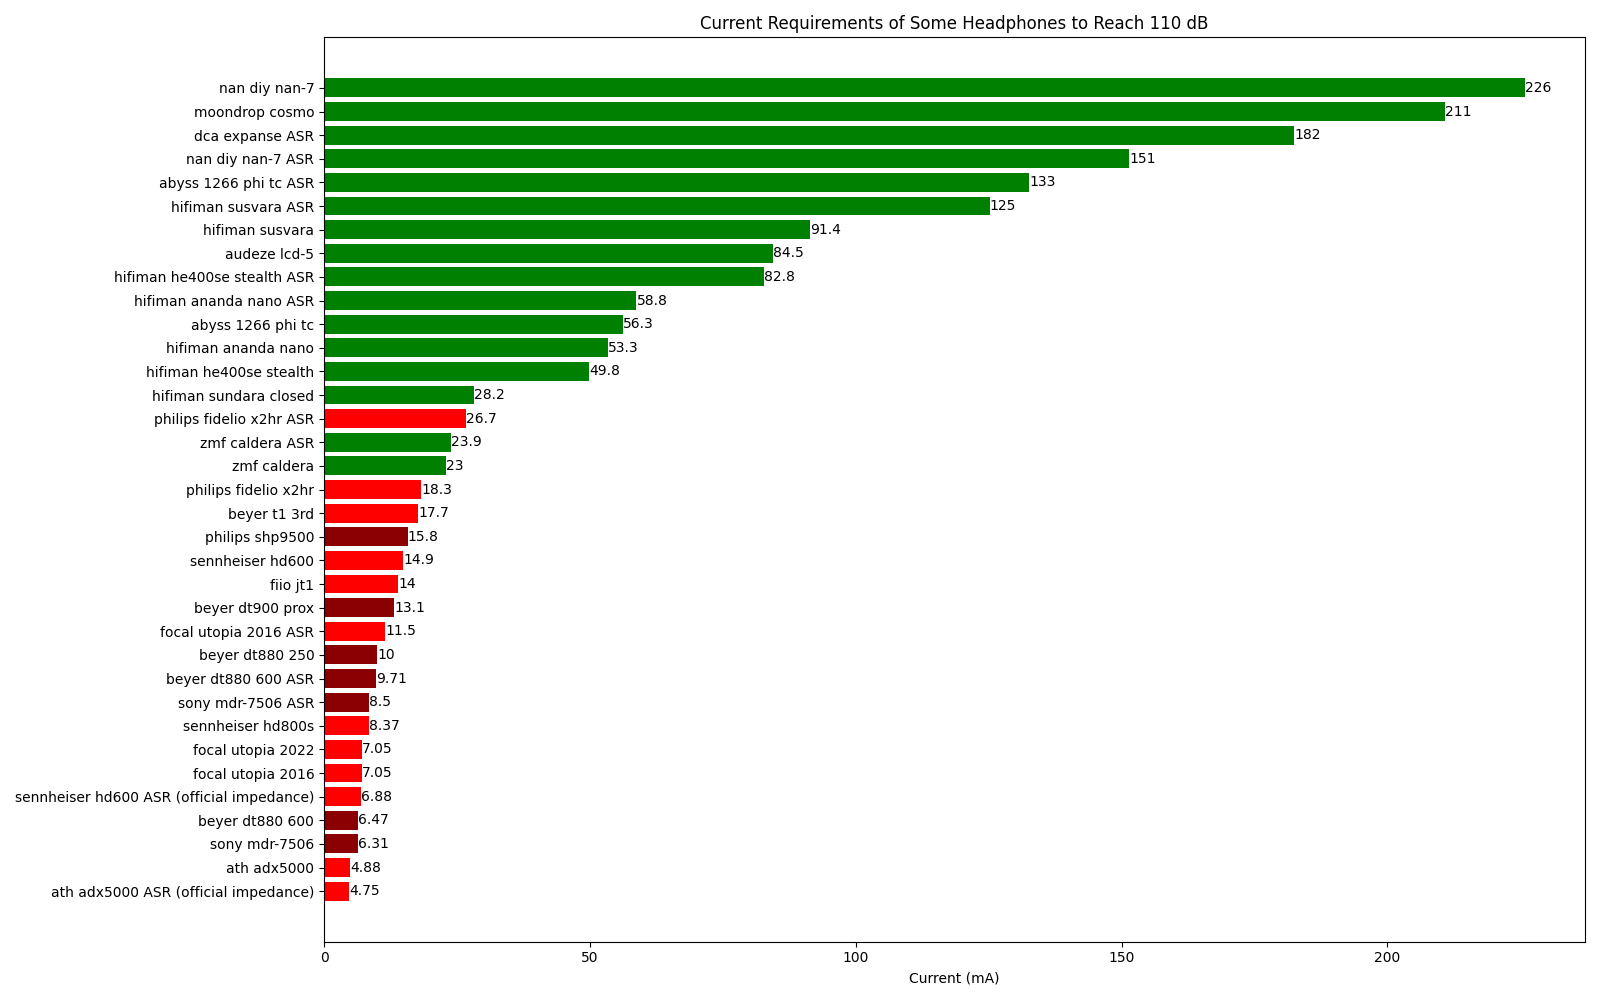
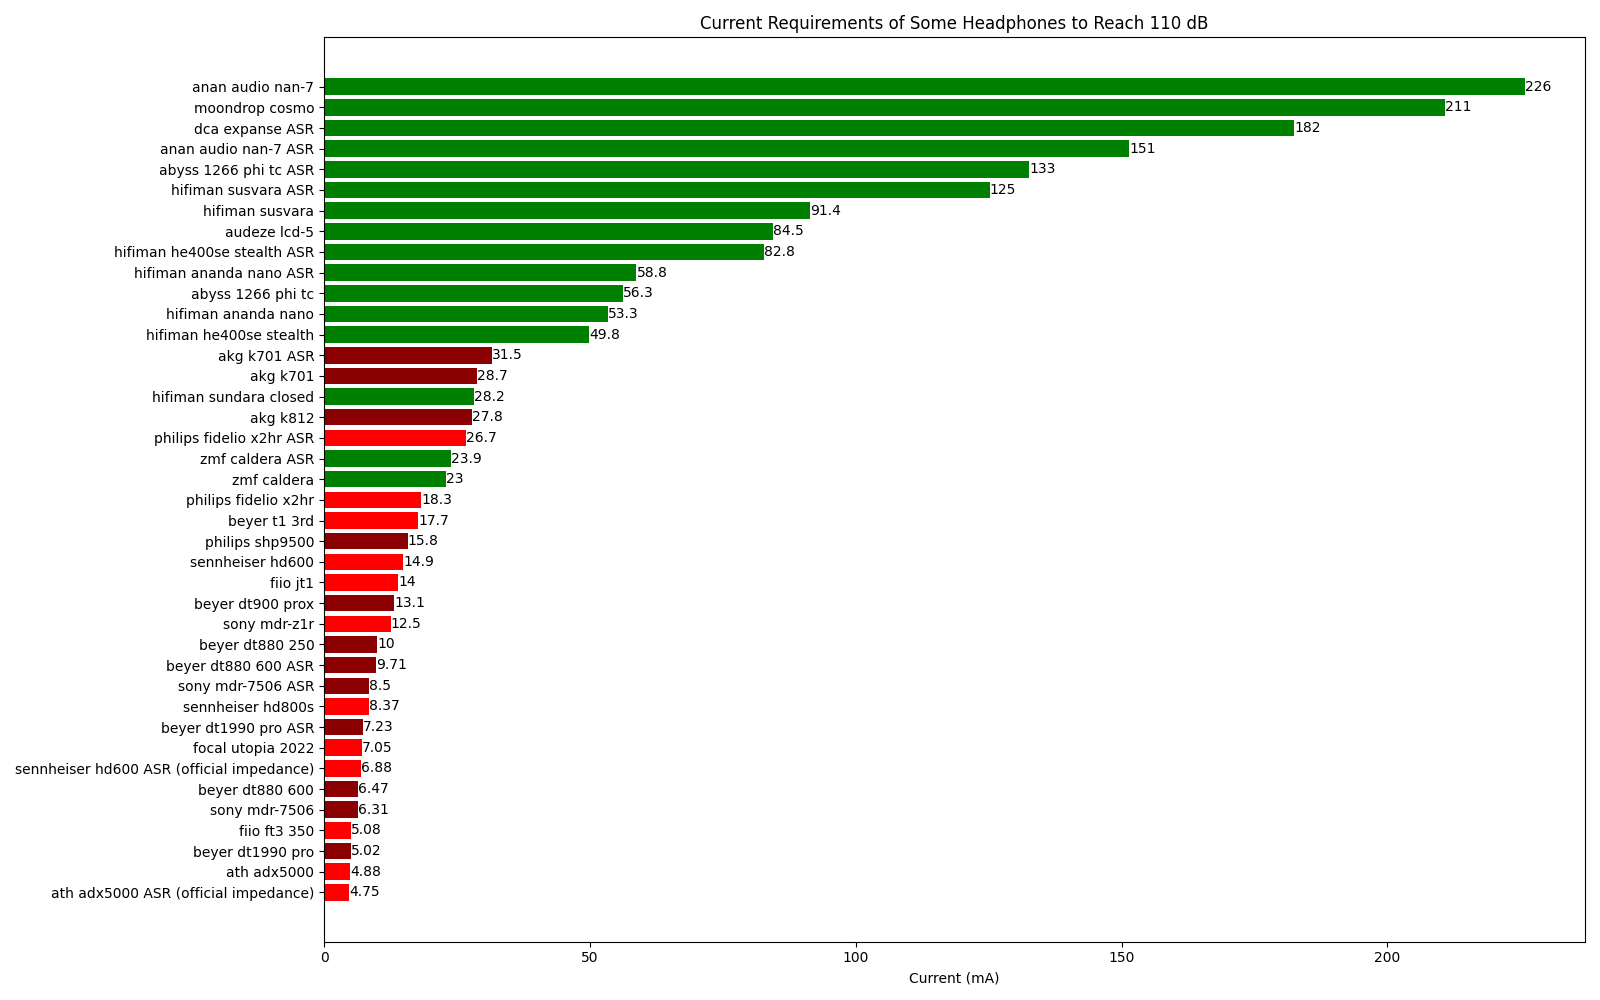
update

Changed region(s): [[0.0, 0.062, 0.9375, 0.899]]

diff --git a/analysis tools/over-ear sensitivity analysis.py b/analysis tools/over-ear sensitivity analysis.py
@@ -166,13 +166,14 @@ def plot(
     elif beginner == 0:
         data = data[-max_shown:]
     else:
-        data = data[-beginner - max_shown : -beginner]
+        data = data[-beginner - max_shown: -beginner]
     models, values, drivers, balances = zip(*data)
 
     colors = []
     for driver, balance in zip(drivers, balances):
         if driver == "dynamic":
-            colors.append("red" if balance == "yes" or balance == "both" else "darkred")
+            colors.append("red" if balance == "yes" or balance ==
+                          "both" else "darkred")
         elif driver == "planar":
             colors.append(
                 "green" if balance == "yes" or balance == "both" else "darkgreen"
@@ -266,7 +267,8 @@ def power_needed(headphones, target_db):
             if power_needed:
                 power_data.append(
                     (
-                        f"{headphone.brand} {headphone.model} ASR (official impedance)",
+                        f"{headphone.brand} {
+                            headphone.model} ASR (official impedance)",
                         power_needed,
                         headphone.driver,
                         headphone.balance,
@@ -305,7 +307,8 @@ def current_needed(headphones, target_db):
             if current_needed:
                 current_data.append(
                     (
-                        f"{headphone.brand} {headphone.model} ASR (official impedance)",
+                        f"{headphone.brand} {
+                            headphone.model} ASR (official impedance)",
                         current_needed,
                         headphone.driver,
                         headphone.balance,
@@ -368,7 +371,8 @@ for index, data in asr.iterrows():
             break
     if not found:
         print(
-            f"Error! ASR has {data['brand']} {data['model']} but official data doesn't"
+            f"Error! ASR has {data['brand']} {
+                data['model']} but official data doesn't"
         )
         sys.exit(1)
 
@@ -423,17 +427,17 @@ reference_headphones_names = dict(
     {
         "sennheiser": ["hd800s", "hd600"],
         "dca": ["expanse"],
-        "fiio": ["jt1"],
-        "akg": ["k812,k701"],
+        "fiio": ["jt1", "ft3 350"],
+        "akg": ["k812", "k701"],
         "audeze": ["lcd-5"],
-        "sony": ["mdr-a1r", "mdr-7506"],
-        "beyer": ["dt880 250", "dt900 prox", "t1 3rd", "dt880 600"],
+        "sony": ["mdr-z1r", "mdr-7506"],
+        "beyer": ["dt880 250", "dt900 prox", "t1 3rd", "dt880 600", "dt1990 pro"],
         "philips": ["shp9500", "fidelio x2hr"],
-        "focal": ["utopia 2016", "utopia 2022"],
+        "focal": ["utopia 2022"],
         "hifiman": ["susvara", "he400se stealth", "sundara closed", "ananda nano"],
         "zmf": ["caldera"],
         "abyss": ["1266 phi tc"],
-        "nan diy": ["nan-7"],
+        "anan audio": ["nan-7"],
         "moondrop": ["cosmo"],
         "ath": ["adx5000"],
     }

diff --git a/zh-CN/Knowledge/阻抗和阻抗曲线.md b/zh-CN/Knowledge/阻抗和阻抗曲线.md
@@ -1,6 +1,8 @@
-感谢 XK-Audio 徐工的耐心指导和 ASR 论坛授权提供的数据，让拙文得以写成。本文假设读者至少掌握高中电力学知识
+> 理解本文需要复数运算的基础知识和高中电力学知识
 
-耳机发声单元本质上就是一个电路元件，而一整个耳机系统就是一个复杂的电路。为了分析耳机发声单元的声学性能，我们可以把最后一级放大器开始到耳机单元的所有元件看作一个有源局部电路。本文将……
+感谢 XK-Audio 徐工的耐心指导和 [AudioScienceReview 论坛](https://audiosciencereview.com) 版主 amirm 授权提供的数据，让拙文得以写成。本文假设读者至少掌握高中电力学知识
+
+耳机发声单元本质上就是一个电路元件，而一整个耳机系统就是一个复杂的电路。为了分析耳机发声单元的电声学性能，我们可以把最后一级放大器开始到耳机单元的所有元件看作一个有源局部电路。本文将带各位读者揭开耳机最重要的参数之一 —— **阻抗** 的面纱
 
 # 阻抗与阻抗曲线
 
@@ -13,13 +15,13 @@ $$
 
 ![阻抗](../../resource/impedance.svg)
 
-其中，Z 为阻抗，R 为电阻，X 为电抗，$X_L$ 为感抗，$X_c$ 为容抗，j 为虚数单位即 $\sqrt{-1}$，以上所有量的单位都是欧姆（Ω）。阻抗是一个复数，它的实部是电阻，虚部是电抗。阻抗的绝对值反映了一个元件对电流阻碍作用的大小。**下文以“阻抗”代称阻抗的绝对值，用 Z 表示阻抗的绝对值**
+其中，Z 为阻抗，R 为电阻，X 为电抗，$X_L$ 为感抗，$X_c$ 为容抗，j 为虚数单位即 $\sqrt{-1}$，以上所有量的单位都是欧姆（Ω）。阻抗是一个复数，它的实部是电阻，虚部是电抗。阻抗的绝对值反映了一个元件对电流阻碍作用的大小
 
 由于动圈和平面磁耳机单元的容抗通常远小于感抗和电阻，即 $X\approx X_L$，因此可以近似地认为耳机的阻抗只由电阻和感抗组成，即认为
 
-$$Z=\sqrt{R^2+X_L^2}$$
+$$|Z|=\sqrt{R^2+X_L^2}$$
 
-感抗是电感现象对电流阻碍作用的大小，它与电流变化的速率正相关，因此信号的频率会影响感抗，进而影响阻抗。信号频率和阻抗大小的关系被称为 **阻抗曲线**
+感抗是电感现象对电流阻碍作用的大小，它与电流的变化速率正相关，因此信号的频率会影响感抗，进而影响阻抗。信号频率和阻抗大小的关系被称为 **阻抗曲线**
 
 > ![mistery impedance](../../resource/utopia2016%20impedance%20masked.png)  
 > **猜猜这是哪款耳机的阻抗曲线！** 答案将在文末揭晓
@@ -28,10 +30,10 @@ $$Z=\sqrt{R^2+X_L^2}$$
 
 平面磁耳机是一种在振膜上印导电线路，利用电磁感应驱动振膜的耳机。平面磁单元由磁铁和印有导电线路的振膜组成。其中，磁铁产生磁场，导电线路通过信号电流，在磁场中受力带动振膜振动，振膜推动空气发出声音。如图是一种典型的平面磁单元结构
 
-![平面磁单元结构](../../resource/planar%20driver%20structure.png)  
-![平面磁单元原理](../../resource/planar%20driver%20principle.jpg)
+![平面磁单元原理](../../resource/planar%20driver%20principle.jpg)  
+![平面磁单元结构](../../resource/planar%20driver%20structure.png)
 
-图中，导电线路和磁感线相互垂直，电流按图示方向通过时会产生向下的力。由于平板耳机的振动部分很轻，转化为机械能的电能很小，因此感抗很小，所以大部分平面磁耳机的阻抗基本等于其电阻值。由于电阻不受信号电流频率的影响，大部分平面磁耳机的阻抗曲线几乎是平直的
+图中，导电线路和磁感线相互垂直，电流按图示方向通过时会产生向下的力。由于平板耳机的振动部分很轻，转化为机械能的电能很小，因此感抗很小，所以大部分平面磁耳机的阻抗基本等于其线性电阻。由于线性电阻不受信号电流频率的影响，大部分平面磁耳机的阻抗曲线几乎是平直的
 
 ![Susvara impedance](../../resource/susvara%20impedance.png)
 
@@ -39,46 +41,105 @@ Susvara 的阻抗曲线非常平直
 
 ![Expanse impedance](../../resource/expanse%20impedance.png)
 
-但也不是所有平面磁耳机的阻抗曲线都是平直的，如 DCA Expanse
+但也不是所有平面磁耳机的阻抗曲线都是完全平的，如 Dan Clark Audio 的 Expanse
 
 # 动圈耳机的阻抗
 
-动圈耳机是一种将音圈绑定振膜，利用电磁感应驱动音圈，进而推动振膜的耳机。动圈单元由磁铁、音圈和振膜组成。其中，磁铁产生磁场，音圈通过信号电流，在磁场中受力推动振膜振动，振膜推动空气发出声音。如图是一种典型的动圈单元结构
+动圈耳机是一种将音圈绑定与振膜，利用电磁感应驱动音圈，进而推动振膜的耳机。动圈单元由磁铁、音圈和振膜组成。其中，磁铁产生磁场，音圈通过信号电流，在磁场中受力推动振膜振动，振膜推动空气发出声音。如图是一种典型的动圈单元结构
 
 ![动圈耳机原理静态](../../resource/moving%20coil%20principle.png)  
 ![动圈耳机原理动图](../../resource/moving%20coil%20principle.gif)
 
-如图可见，音圈类似一个线圈，会发生自感现象；同时，动圈单元的振动会更多地切割磁感线，因此感抗较大。由于感抗受电型号频率的影响，动圈耳机的阻抗曲线通常是不平直的
-
-![Aune AR5000 impedance](../../resource/ar5000%20impedance.png)
-
-如图，现代低阻动圈耳机奥莱尔 AR5000 的阻抗会随频率波动
+如图可见，音圈类似一个线圈，会发生自感现象；同时，动圈单元的振动会比平面磁耳机更多地切割磁感线；因此，动圈耳机的感抗比较明显。由于感抗受电信号频率的影响，动圈耳机的阻抗曲线不会是平直的
 
 ![dt880 impedance](../../resource/dt880%20600%20impedance.png)
 
-如图，拜亚动力 dt880 (600 Ω) 的阻抗会随频率显著波动
+如图，拜亚动力 dt880 (600 Ω) 的阻抗非常显著地随频率波动
 
-你可能会注意到，早期高端动圈耳机如 hd600、dt880 等的阻抗普遍较高。这是因为一方面早期耳放的输出阻抗普遍较高，难以驱动阻抗过低的耳机，因此一些耳机通过降低线径等方式来提高线性电阻进而提高阻抗；一方面早期动圈的振膜、音圈和磁铁的材料以及工艺不如现在，通过增加音圈匝数来增强对磁场的响应能力的同时，它的线性电阻和自感效应也大幅提高了
+![dt880](../../resource/dt880.jpg)
+
+你可能会注意到，早期高端动圈耳机的阻抗普遍较高，如 hd600、dt880 等。这是因为一方面早期耳放的输出阻抗普遍较高，由于串联电路的分压原理，难以驱动阻抗过低的耳机，因此一些耳机通过缩小线径等方式来提高线性电阻进而提高阻抗；一方面早期动圈的振膜、音圈和磁铁的材料以及工艺不如现在，通过增加音圈匝数来增强对磁场的响应能力的同时，它的线性电阻和自感效应也大幅提高了
 
 ## 动圈耳机的谐振和自感
 
 你可能已经注意到 dt880 的阻抗曲线在低频有一个明显的峰值，这是由于在一些特定频率附近，动圈单元容易发生共振，此时电磁能和非声波形式的机械能互相转化。这种现象被称为 **谐振**，发生谐振的频率即备受发烧友和声学工程师关注的谐振频率（resonant frequency, **f0**）
 
-你还会注意到 dt880 的阻抗在高频极高频有提高趋势，这是由于频率越高，音圈的自感现象越明显，表现出的感抗越大
+![dt880 impedance bass peak](../../resource/dt880%20impedance%20bass%20peak.png)
 
-这两个效应会导致在评估动圈耳机“难推”程度时，电压灵敏度会比功率灵敏度更有意义，且根据阻抗和功率灵敏度计算出的电压灵敏度会比实际情况偏低。计算方法和推导过程可以参考 [灵敏度与阻抗的代数关系](./灵敏度与阻抗的代数关系.md)
+严重的谐振可能会导致频响上的缺陷和非线性失真，因此在耳机设计中，常通过增加阻尼和提高振膜硬度等办法来抑制谐振，也可以通过增加线性电阻的方式“稀释”谐振感抗的影响
 
-动圈耳机频响的局部缺陷和特定频段的失真很可能来自于严重的谐振和高频自感现象，是导致的一个原因，但是这不是必然的
+据 XK-Audio 徐工介绍，阿瓦隆一代与 dt880 类似，低频谐振造成阻抗在局部频段内大幅升高，对音质产生了不利影响。阿瓦隆二代吸取一代的教训，通过增加线性电阻，使用超大振膜方式让阻抗曲线更加平直，使其成为了一款阻抗较高的动圈耳机
+
+![阿瓦隆二代](../../resource/avalon%20mk2.png)
+
+回到 dt880 的阻抗曲线，你可能还会注意到阻抗在极高频有提高趋势。这是由于（频率越高，匝数越多）->（音圈的自感现象越明显）->（表现出的感抗越大）->（阻抗曲线的高频上翘越明显）
+
+![dt880 impedance treble peak](../../resource/dt880%20impedance%20treble%20peak.png)
+
+这两个效应还会导致根据阻抗和功率灵敏度计算出的电压灵敏度比实际情况偏低，因此在评估动圈耳机“难推”程度时，电压灵敏度会比功率灵敏度更有意义。计算方法和推导过程可以参考 [灵敏度与阻抗的代数关系](./灵敏度与阻抗的代数关系.md)
+
+![AR5000](../../resource/ar5000%20impedance.png)
+
+部分现代动圈耳机的阻抗曲线已经比较平直，如奥莱尔的 AR5000
 
 # 输出阻抗对频响曲线的影响
 
-电子管功放（胆机）的独特音色由很多方面共同产生，其中最重要的方面之一便是输出阻抗对一些耳机频响的改变。
+高输出阻抗的耳放会影响阻抗曲线不平直的耳机的频响曲线，这是胆机独特音色最重要的成因之一。耳放输出阻抗影响耳机频响的本质就是耳放的输出部分和耳机发声单元串联，会形成一个分压电路，导致在不同频率下耳机单元分得的电压发生差异，产生线性失真。如果已知耳机和胆机的阻抗曲线、线性电阻以及频响曲线，我们就可以算出该耳机在这个胆机上的频响曲线
+
+![数学来咯](../../resource/here%20comes%20mathemetics.jpg)
+
+## 结论
+
+如果某频率下，耳机的线性电阻为 $R$，电抗为 $X$；某胆机输出线性电阻为 $r$，电抗为 $x$；则在该频率下，胆机输出相同等效电压下，由胆机驱动的分贝声压级将
+
+$$-10lg\frac{(R+r)^2+(X+x)^2}{R^2+X^2}$$
+
+如果某耳机的线性电阻为 $R$，某胆机输出线性电阻为 $r$；在 1 khz 下，耳机的电抗为 $X_1$，胆机的输出电抗为 $x_1$；在频率 f 下，耳机的电抗为 $X_2$，胆机的输出电抗为 $x_2$；则让 1 khz 下胆机和低输出阻抗的普通耳放把该耳机驱动到相同响度时，在频率 $f$ 下，由胆机驱动的分贝声压级将
+
+$$-10lg\frac{(R^2+X_1^2)((R+r)^2+(X_1+x_1)^2)}{(R^2+X_2^2)((R+r)^2+(X_2+x_2)^2)}$$
+
+## 推导过程
+
+> 理解以下推导过程需要理解 [灵敏度与阻抗的代数关系](./灵敏度与阻抗的代数关系.md)，并对交流电路知识有一定了解
+
+已知某频率下，耳机的线性电阻为 $R$，电抗为 $X$；某胆机输出线性电阻为 $r$，电抗为 $x$
+
+我们首先求得该局部电路总阻抗 $Z_总$（$j$ 是复数单位，即$\sqrt{-1}$）
+
+$$Z_总=R+jX+r+jx=(R+r)+j(X+x)$$
+
+则耳机上的等效电压 $U$ 和总电压 $U_总$ 的比值为
+
+$$\frac{U}{U_总}=\frac{|R+jX|}{|Z_总|}=\frac{\sqrt{R^2+X^2}}{\sqrt{(R+r)^2+(X+x)^2}}$$
+
+根据分贝声压级的定义式和声压和等效电压的正比关系，我们可以得到由胆机驱动的分贝声压级与给耳机施加电路全部电压时的分贝声压级差值 $I$
+
+$$\Delta I=20lg\frac{\sqrt{R^2+X^2}}{\sqrt{(R+r)^2+(X+x)^2}}=-10lg\frac{(R+r)^2+(X+x)^2}{R^2+X^2}$$
+
+这就是由胆机驱动和由低输出阻抗的普通耳放驱动的分贝声压级的差值
+
+---
+
+已知某耳机的线性电阻为 $R$，某胆机输出线性电阻为 $r$；在 1 khz 下，耳机的电抗为 $X_1$，胆机的输出电抗为 $x_1$；在频率 f 下，耳机的电抗为 $X_2$，胆机的输出电抗为 $x_2$
+
+有上一题的经验，我们可以直接分别求得 1 khz 下和频率 f 下由胆机驱动和由低输出阻抗的普通耳放驱动的分贝声压级的差值 $I_1$ 和 $I_2$
+
+$$
+I_1=-10lg\frac{(R+r)^2+(X_1+x_1)^2}{R^2+X_1^2}\\
+I_2=-10lg\frac{(R+r)^2+(X_2+x_2)^2}{R^2+X_2^2}
+$$
+
+由 $I_1-I_2$，得到
+
+$$\Delta I=-10lg\frac{(R^2+X_1^2)((R+r)^2+(X_1+x_1)^2)}{(R^2+X_2^2)((R+r)^2+(X_2+x_2)^2)}$$
+
+这就是让 1 khz 下胆机和低输出阻抗的普通耳放把该耳机驱动到相同响度时，在频率 $f$ 下，由胆机驱动和由普通耳放驱动的分贝声压级的差值
 
 # 答案揭晓
 
 > ![mistery impedance](../../resource/utopia2016%20impedance%20masked.png)  
 > **猜猜这是哪款耳机的阻抗曲线！**
 
-**这是 Focal 于 2016 年推出的旗舰动圈耳机 Utopia 的阻抗曲线**
+**这是 Focal Utopia 2016，即大乌一代的阻抗曲线**
 
-![Focal Utopia](../../resource/utopia2016.jpg)
+![大乌一代](../../resource/utopia2016.jpg)

diff --git a/zh-CN/Knowledge/灵敏度与阻抗的代数关系.md b/zh-CN/Knowledge/灵敏度与阻抗的代数关系.md
@@ -1,4 +1,14 @@
+一款耳机的驱动难度，即一款耳机“好不好推”，通常可以根据其灵敏度和阻抗来初步判断。其中，灵敏度还分为电压灵敏度（单位为 dB/Vrms）和功率灵敏度（单位为 dB/mW）两种
+
+由于有些 hifi 厂商标注 dB/Vrms 即电压灵敏度，有些厂商标注 dB/mW 即功率灵敏度（只写 dB 的情况通常是功率灵敏度），因此我们有时需要将两种灵敏度转换为同一单位，以便比较
+
+编者还准备了一个小 puzzle，学完这篇文章你就能解答了
+
+![数学来咯](../../resource/here%20comes%20mathemetics.jpg)
+
 > rgtsw 买了一个新动圈耳机开始测试。他先开始测频响曲线，发现这个耳机在 1 kHz 时声压级恰好 92 dB，在 5 kHz 时声压级又恰好 97 dB，但刚测完就发现自己忘记测频响用的电压是多少了！然后，rgtsw 又用 1 kHz 的正弦波把这个耳机驱动到恰好 94 dB，记下等效电压为 $U(mV)$。他继续测阻抗曲线，发现该耳机在 1 kHz 时阻抗为 $Z_1(Ω)$，在 5 kHz 时阻抗为 $Z_2(Ω)$。测完后 rgtsw 去询问耳机制造商，得知这个耳机的线性电阻为 $R(Ω)$。假设这个耳机一致性良好，耳放内阻不计，你能算出用 5 kHz 正弦波把该耳机驱动到恰好 100 dB 需要的实际功率为几 mW 吗？**（答案在末尾）**
+
+# 灵敏度与阻抗的代数关系
 
 要将一个耳机推到 $I(dB)$ 的声压级，需要的等效电压 $U(V)$ 和实际功率 $P(mW)$ 分别为
 

diff --git a/en-US/Knowledge/Algebraic Relation between Sensitivities and Impedance.md b/en-US/Knowledge/Algebraic Relation between Sensitivities and Impedance.md
@@ -1,3 +1,11 @@
+We usually judge how difficulty it is to drive a certain headphone by its sensitivity and impedance, while sensitivity is further divided into voltage sensitivity (measured in dB/Vrms) and power sensitivity (measured in dB/mW).
+
+Since some headphone manufacturers indicate sensitivity in dB/Vrms, while others indicate sensitivity in dB/mW (if only how many dB is mentioned, it usually refers to power sensitivity), we sometimes need to convert the two types of sensitivities to the same unit for comparison.
+
+Editor has also prepared a small puzzle, which you will be able to solve after understanding this article.
+
+![here comes mathemetics](../../resource/here%20comes%20mathemetics.jpg)
+
 > mrima bought a new dynamic headphone and began reviewing it. He started by measuring the frequency response and discovered that the headphone is exactly 92 dB at 1 kHz and exactly 97 dB at 5 kHz. However, right after the measurement, he realized he forgot to record the voltage used for the frequency response test!
 >
 > Then, mrima used a 1 kHz sine wave to drive the headphone to exactly 94 dB and noted down the equivalent voltage as $U(mV)$. He continued to measure the impedance curve and found that the headphone had an impedance of $Z_1(Ω)$ at 1 kHz and $Z_2(Ω)$ at 5 kHz. After the measurements, mrima asked the manufacturer about the headphone's linear resistance and got an answer of $R(Ω)$.
